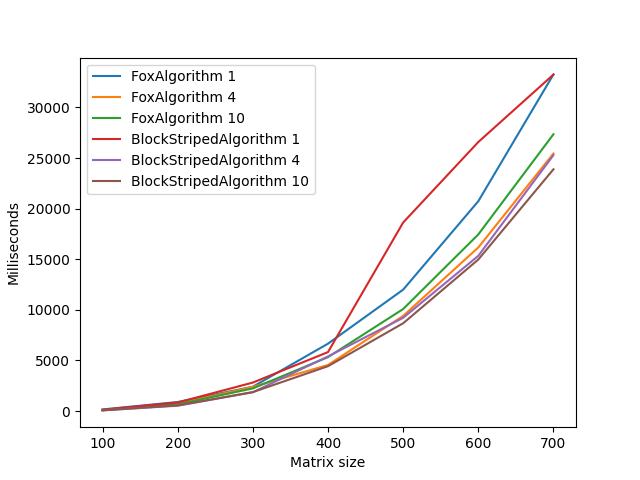
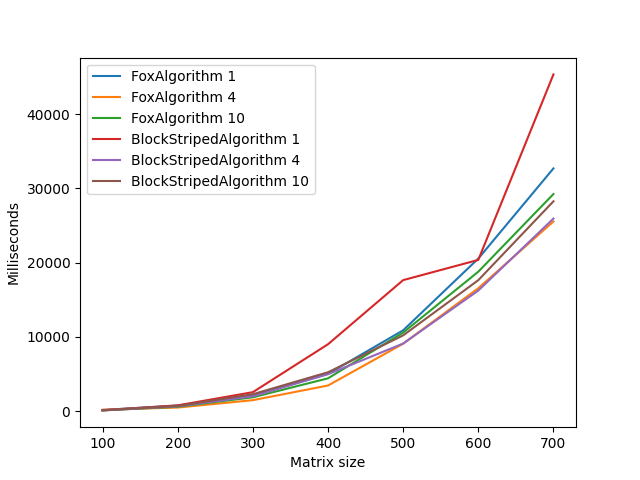
lab2: in progress

diff --git a/Lab2/Lab2/src/test/java/test/MatrixTester.java b/Lab2/Lab2/src/test/java/test/MatrixTester.java
@@ -28,26 +28,28 @@ public class MatrixTester {
         public final int threadsNum;
         public final int size;
         public final String name;
+        public final double speedup;
 
-        public AlgorithmResult(long time, int threadsNum, int size, String name) {
+        public AlgorithmResult(long time, int threadsNum, int size, double speedup, String name) {
             this.milliseconds = time;
             this.threadsNum = threadsNum;
             this.size = size;
             this.name = name;
+            this.speedup = speedup;
         }
 
         @Override
         public String toString() {
-            return String.format("%s\t%d\t%d\t%d", name, threadsNum, size, milliseconds);
+            return String.format("%s\t%d\t%d\t%d\t%f", name, threadsNum, size, milliseconds, speedup);
         }
     }
 
     public static void main(String[] args) throws PythonExecutionException, IOException {
             var tester = new MatrixTester();
-//            var threadsNums = new int[] {1, 4, 10};
-//            var matrixSizes = new int[] {100, 200, 300, 400, 500, 600, 700};
-//            var algorithms = new GeneralAlgorithm[] {new FoxAlgorithm(), new BlockStripedAlgorithm()};
-//            tester.testAlgorithm(threadsNums, matrixSizes, algorithms);
+            var threadsNums = new int[] {1, 4, 10};
+            var matrixSizes = new int[] {100, 200, 300, 400, 500, 600, 700};
+            var algorithms = new GeneralAlgorithm[] {new FoxAlgorithm(), new BlockStripedAlgorithm()};
+            tester.testAlgorithm(threadsNums, matrixSizes, algorithms);
 
             tester.plotStatistic();
     }
@@ -84,6 +86,7 @@ public class MatrixTester {
                     Long.parseLong(row[3]),
                     Integer.parseInt(row[1]),
                     Integer.parseInt(row[2]),
+                    Double.parseDouble(row[4]),
                     row[0]
                 )
             );
@@ -97,8 +100,10 @@ public class MatrixTester {
         var matrixFactory = new Matrix2DFactory();
         for(var algorithm : algorithms) {
             var algName = algorithm.getClass().getSimpleName();
-            for(var threadsNum : threadNums) {
-                for(var size : matrixSizes) {
+            for(var size : matrixSizes) {
+                long threadTimeOne = 0;
+                for(var threadsNum : threadNums) {
+
                     var startTime = System.currentTimeMillis();
 
                     var first = matrixFactory.getRandom(size, size, minVal, maxVal);
@@ -113,8 +118,12 @@ public class MatrixTester {
                     var endTime = System.currentTimeMillis();
 
                     var duration = endTime - startTime;
+                    if(threadsNum==1) threadTimeOne = duration;
 
-                    var result = new AlgorithmResult(duration, threadsNum, size, algName).toString();
+                    var result = new AlgorithmResult(
+                            duration, threadsNum, size,
+                            threadTimeOne / (double) duration , algName).toString();
+
                     System.out.println(result);
                     results.write((result + "\n").getBytes());
                 }
